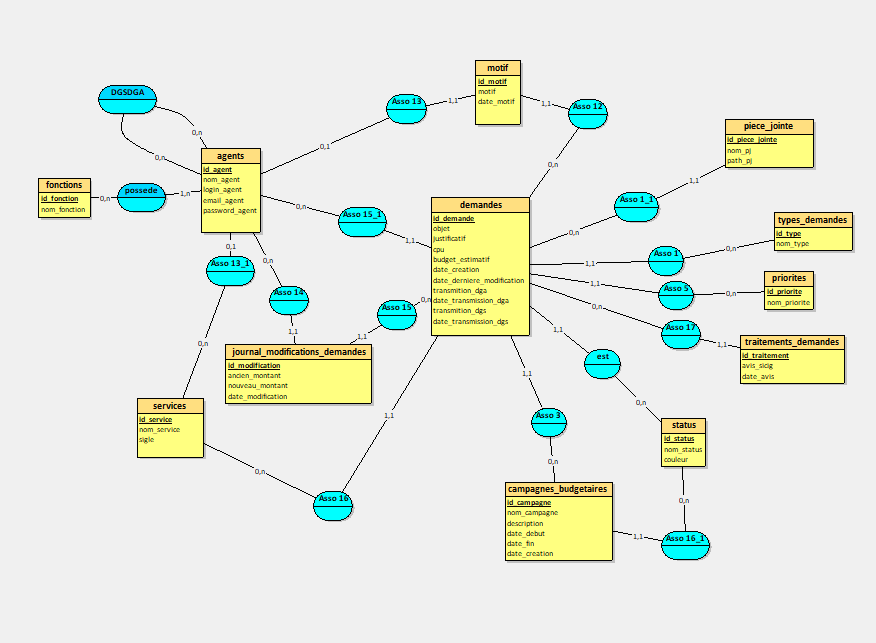
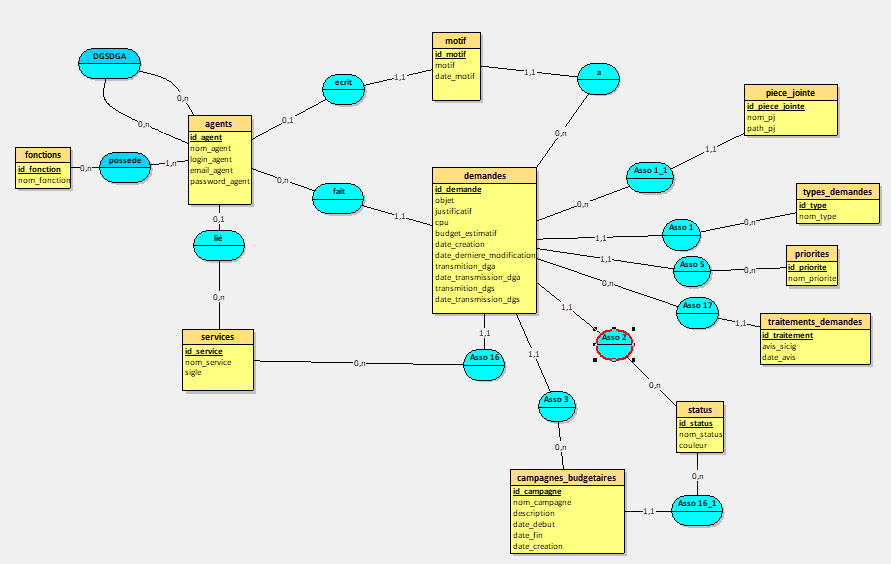
image

diff --git a/src/components/Projet.vue b/src/components/Projet.vue
@@ -77,7 +77,31 @@ import image6 from '../assets/projet/photo/exemple_table.jpg';
 import image7 from '../assets/projet/screen/premier_mcd_créé.png';
 
 import image8 from '../assets/projet/screen/deuxième_mcd_avec_modif_agent.png';
-import image9 from '../assets/projet/screen/troisième_mcd_avec_pj.png';
+
+import image10 from '../assets/Postgresql.png';
+import image11 from '../assets/projet/screen/API_1.png';
+import image12 from '../assets/projet/screen/requete.jpg';
+
+import image13 from '../assets/projet/screen/all_figma.png';
+import image14 from '../assets/projet/screen/home_figma.png';
+
+import image15 from '../assets/projet/screen/vue_dossier1.png';
+
+import image16 from '../assets/projet/screen/token_exemple.png';
+import image17 from '../assets/projet/code/generer_token.png';
+import image18 from '../assets/projet/code/token_exemple.png';
+
+import image19 from '../assets/projet/code/demandes_service.png';
+
+import image20 from '../assets/projet/screen/accueil_vue.png';
+import image21 from '../assets/projet/screen/demandes_vue.png';
+
+import image22 from '../assets/projet/screen/accueil_vue_2.png';
+
+import image23 from '../assets/projet/code/demandes_service.png';
+import image24 from '../assets/projet/code/statut.png';
+import image25 from '../assets/projet/code/statut_script.png';
+import image26 from '../assets/projet/code/budget.png';
 
 //import image4 from '../assets/projet/';
 
@@ -115,24 +139,10 @@ export default {
                ]
            },
            {
-               title: 'Étape 3 : Révision et correction du MCD initial pour résoudre les bugs',
-               text: `Lors de l'avancée du projet j’ai dû corriger le MCD car des données s'ajoutent et des contraintes se formaient.
-               Notamment lors de la gestion des hiérarchies avec la fonction des agents.`,
-               images: [image8,image9],
-               competences: [
-                   {
-                       name: 'Compétence 4',
-                       levels: [
-                           { level: 'Niveau 2', acs: ['AC 2', 'AC 3'] },
-                       ]
-                   },
-               ]
-           },
-           {
-               title: 'Étape 4 : Création de la base de données (BDD) pour le projet',
+               title: 'Étape 3 : Création de la base de données (BDD) pour le projet',
                text: `J’ai, grâce au MCD, créé la BDD du projet afin de visualiser des données et de les manipuler.
                Notamment grâce au requête (PUT, GET, POST et DELETE) de l'API que j’ai développé.`,
-               images: [],
+               images: [image11, image10, image12],
                competences: [
                    {
                        name: 'Compétence 4',
@@ -143,11 +153,11 @@ export default {
                ]
            },
            {
-               title: 'Étape 5 : Utilisation de Figma pour créer la maquette du site',
+               title: 'Étape 4 : Utilisation de Figma pour créer la maquette du site',
                text: `Afin d’y voir clair sur l’application et de ne pas avancer au hasard, j’ai décidé de créer des
                maquettes des pages principales pour les utilisateurs. Cela m’a aidé à coder les pages plus facilement. \n
                Cela va aussi permettre d’arranger les différents modules de l’app de la manière la plus ergonomique possible.`,
-               images: [],
+               images: [image14,image13],
                competences: [
                    {
                        name: 'Compétence 1',
@@ -159,12 +169,12 @@ export default {
                ]
            },
            {
-               title: `Étape 6 : Développement de l'interface utilisateur avec Vue.js`,
+               title: `Étape 5 : Développement de l'interface utilisateur avec Vue.js`,
                text: `J’ai donc créé la vue du projet en mettant les différents modules MVC (Model, Vue, Controller)
                qui permettent une vision claire du code.\n
                J’ai pu élaborer une page de connexion avec des champs qui permettent de se connecter. \n
                Cela fait partie de l’interface utilisateur.`,
-               images: [],
+               images: [image15],
                competences: [
                    {
                        name: 'Compétence 1',
@@ -176,12 +186,12 @@ export default {
                ]
            },
            {
-                title: `Étape 7 : Implémentation de la gestion des tokens et des utilisateurs`,
+                title: `Étape 6 : Implémentation de la gestion des tokens et des utilisateurs`,
                 text: `Afin de compléter la connexion, j’ai élaboré une fonction de gestion de tokens lors de l’identification.\n
                 Tout cela en utilisant un “store” de l’application afin d’avoir la possibilité de réutilisation du code \n
                 Comme il y a un token lors de l'identification, cela va permettre au utilisateur d'être géré et
                 d’avoir certain droit d'utilisation.`,
-                images: [],
+                images: [image16, image17, image18],
                 competences: [
                     {
                         name: 'Compétence 1',
@@ -198,11 +208,11 @@ export default {
                 ]
             },
            {
-                title: `Étape 8 : Affichage des demandes du service lors de la connexion de l'utilisateur`,
+                title: `Étape 7 : Affichage des demandes du service lors de la connexion de l'utilisateur`,
                 text: `J’ai créé des requêtes pour la page des demandes afin d’afficher les demandes du service
                 auquel l’agent est relié. Ces requêtes vont permettre d’afficher toutes les demandes dans la vue de l’application.
                 J’ai donc testé si la visualisation affichait correctement les bonnes demandes liées au services.`,
-                images: [],
+                images: [image19],
                 competences: [
                     {
                         name: 'Compétence 1',
@@ -220,17 +230,32 @@ export default {
                 ]
             },
            {
-               title: `Étape 9 : Limitation des actions des différents agents`,
+               title: `Étape 8 : Limitation des actions des différents agents`,
                text: `Les agents devaient avoir une fonction afin d’avoir une hiérarchie sur les arbitrages et la
                visualisation des données des demandes. j’ai donc modifier le MCD afin de régler les problèmes de hiérarchies.`,
-               images: [],
+               images: [image8],
                competences: [
                    {
                        name: 'Compétence 4',
                        levels: [
-                           { level: 'Niveau 2', acs: ['AC 1'] },
+                           { level: 'Niveau 2', acs: ['AC 1','AC 2', 'AC 3'] },
                        ]
                    },
+               ]
+           },
+           {
+               title: `Étape 9 : Amélioration graphique de l'application`,
+               text: `Afin de rendre comme le figma j'ai refait tout le design de l'application. Cela m'a pris beaucoup de temps mais cela étais tres important 
+               pour l'experience utilisateur, il fallait que les personnes qui test l'application, puissent apprécier et surtout comprendre ce qu'il voyait`,
+               images: [image20, image21],
+               competences: [
+                   {
+                       name: 'Compétence 1',
+                       levels: [
+                           { level: 'Niveau 1', acs: ['AC 3', 'AC 4'] },
+                           { level: 'Niveau 2', acs: ['AC 2'] },
+                       ]
+                   }
                ]
            },
            {
@@ -241,7 +266,7 @@ export default {
                des demandes. Toutes les requêtes interrogent la BDD pour obtenir les données souhaitées qui sont ensuite
                affichées dans la vue de l’utilisateur. Tout cela en vérifiant si les données récupérées sont bien les
                bonnes et qu’aucun bug n’intervient.`,
-               images: [],
+               images: [image22, image26, image23, image24, image25],
                competences: [
                    {
                        name: 'Compétence 1',
